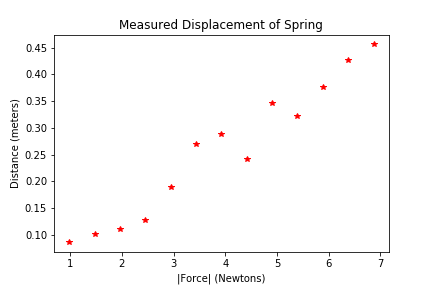
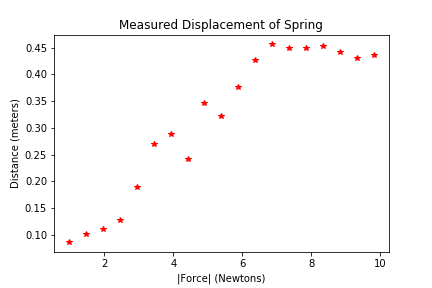
add example for gnuplot

diff --git a/notebook/demo/src/gnuplot_pipe_datafile.c b/notebook/demo/src/gnuplot_pipe_datafile.c
@@ -9,10 +9,10 @@ int main (void)
     if (pipe) {   // If gnuplot is found
       fprintf(pipe, "set term wx\n");         // set the terminal               
       fprintf(pipe, "set datafile separator ','\n"); //datafile separator ','
-      fprintf(pipe, "set xlabel 'Distances'\n");
-      fprintf(pipe, "set ylabel 'Mass'\n");
-      fprintf(pipe, "set title 'Observable'\n");
-      fprintf(pipe, "plot './demo/data/springData.csv' using 1:2 title 'Mass=f(Distance)-' \n");
+      fprintf(pipe, "set xlabel '|Force| (Newtons)'\n");
+      fprintf(pipe, "set ylabel 'Distance (meters)'\n");
+      fprintf(pipe, "set title 'Measured Displacement of Spring'\n");
+      fprintf(pipe, "plot './demo/data/springData.csv' using  ($2*9.81):1 title '(Force,Distance)'\n");
 
     fflush(pipe); //flush pipe
 
